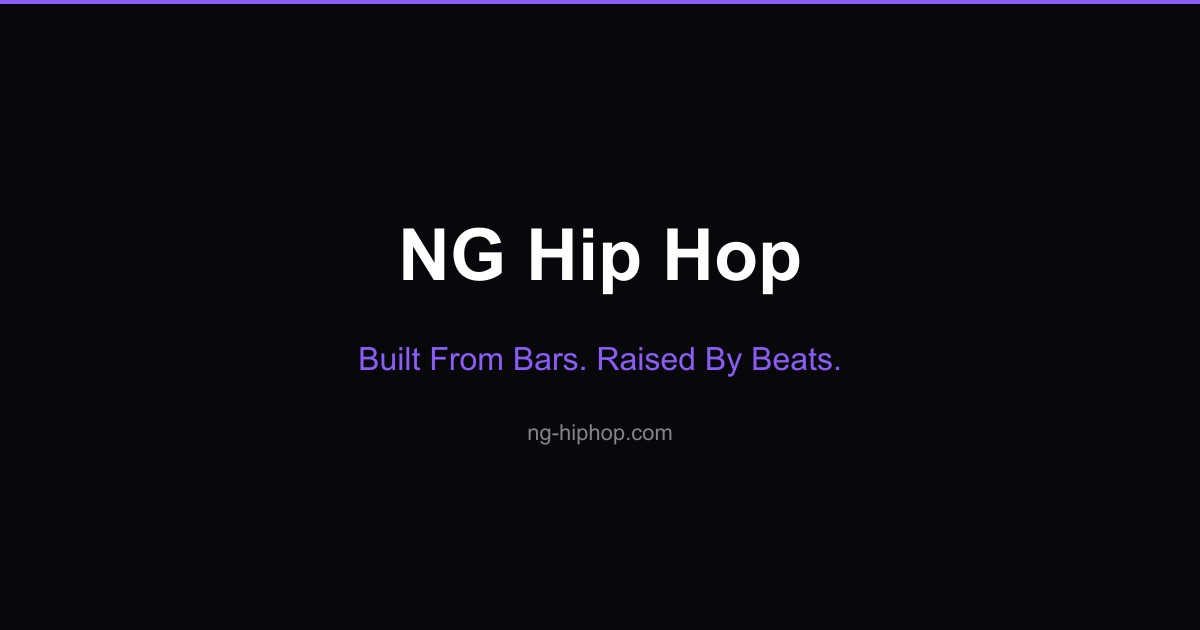
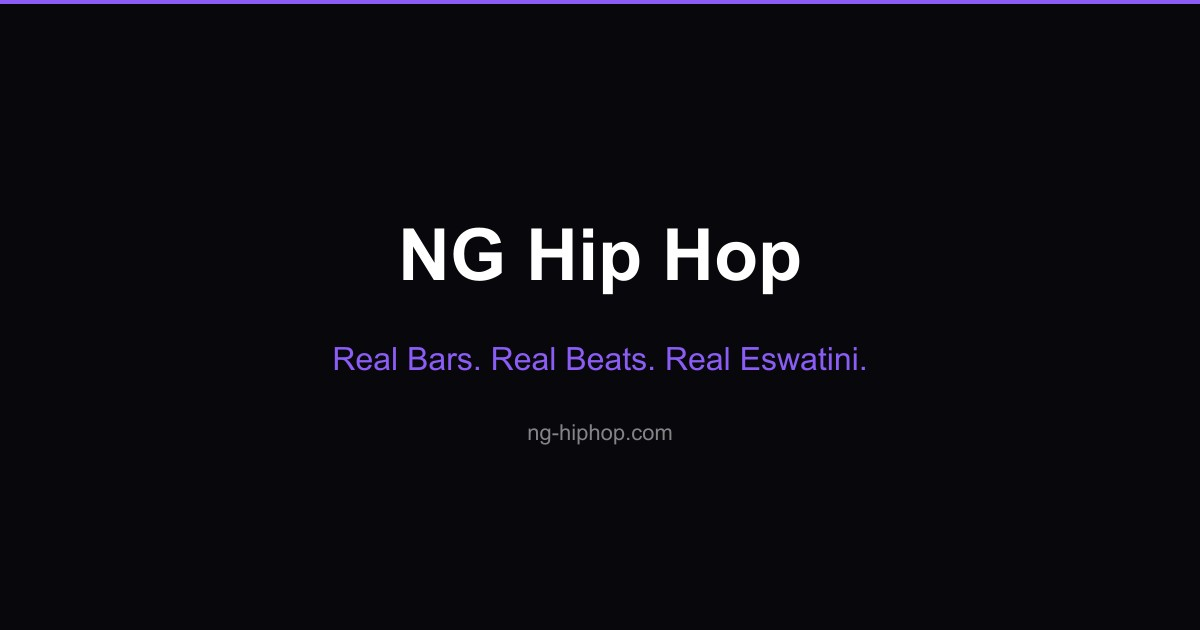
feat(hero): reword hero copy and centralize default slogan
- Slogan: Real Bars. Real Beats. Real Eswatini. (DB row synced, seed now imports shared constant)

- Subheading shortened; second CTA clarifies the lyric game (Test Your Ear)

- Default slogan extracted to lib/slogan.ts so seed, API fallback, and metadata cannot drift

- OG/twitter images regenerated with the new slogan

Changed region(s): [[0.2775, 0.5429, 0.7092, 0.6032]]

diff --git a/app/page.tsx b/app/page.tsx
@@ -5,18 +5,19 @@ import LatestRelease from '@/components/LatestRelease';
 import CommunityQuote from '@/components/CommunityQuote';
 import GraffitiShowcase from '@/components/GraffitiShowcase';
 import CompetitionBanner from '@/components/CompetitionBanner';
+import { DEFAULT_SLOGAN } from '@/lib/slogan';
 
 // Revalidate every 60 seconds
 export const revalidate = 60;
 
 export const metadata: Metadata = {
-    title: 'Nerd Gauge — Built From Bars. Raised By Beats.',
+    title: 'Nerd Gauge — Real Bars. Real Beats. Real Eswatini.',
     description: 'The official platform for Nerd Gauge. Stream the latest releases, explore community quotes, graffiti art, and join the lyric competition movement from Eswatini.',
     alternates: {
         canonical: '/',
     },
     openGraph: {
-        title: 'Nerd Gauge — Built From Bars. Raised By Beats.',
+        title: 'Nerd Gauge — Real Bars. Real Beats. Real Eswatini.',
         description: 'Stream the latest releases, explore community quotes, graffiti art, and join the lyric competition movement.',
         url: 'https://ng-hiphop.com',
         siteName: 'Nerd Gauge',
@@ -25,7 +26,7 @@ export const metadata: Metadata = {
                 url: '/og-image.jpg',
                 width: 1200,
                 height: 630,
-                alt: 'Nerd Gauge Platform — Built From Bars. Raised By Beats.',
+                alt: 'Nerd Gauge Platform — Real Bars. Real Beats. Real Eswatini.',
             },
         ],
         locale: 'en_US',
@@ -33,14 +34,12 @@ export const metadata: Metadata = {
     },
     twitter: {
         card: 'summary_large_image',
-        title: 'Nerd Gauge — Built From Bars. Raised By Beats.',
+        title: 'Nerd Gauge — Real Bars. Real Beats. Real Eswatini.',
         description: 'Stream the latest releases, explore community quotes, graffiti art, and join the lyric competition movement.',
         creator: '@nghiphop',
         images: ['/twitter-image.jpg'],
     },
 };
-
-const DEFAULT_SLOGAN = 'Built From Bars. Raised By Beats.';
 
 export default async function Home() {
   let sloganEntry: { text: string } | null = null;

diff --git a/app/layout.tsx b/app/layout.tsx
@@ -36,7 +36,7 @@ const dancingScript = Dancing_Script({
 
 export const metadata: Metadata = {
     title: {
-        default: 'Nerd Gauge — Built From Bars. Raised By Beats.',
+        default: 'Nerd Gauge — Real Bars. Real Beats. Real Eswatini.',
         template: '%s | Nerd Gauge'
     },
     icons: {
@@ -56,7 +56,7 @@ export const metadata: Metadata = {
     metadataBase: new URL('https://ng-hiphop.com'),
     openGraph: {
         title: 'Nerd Gauge — Authentic Hip-Hop Platform',
-        description: 'Built From Bars. Raised By Beats. Experience the sound of the streets.',
+        description: 'Real Bars. Real Beats. Real Eswatini. Experience the sound of the streets.',
         url: 'https://ng-hiphop.com',
         siteName: 'Nerd Gauge',
         images: [
@@ -72,7 +72,7 @@ export const metadata: Metadata = {
     },
     twitter: {
         card: 'summary_large_image',
-        title: 'Nerd Gauge — Built From Bars. Raised By Beats.',
+        title: 'Nerd Gauge — Real Bars. Real Beats. Real Eswatini.',
         description: 'Authentic hip-hop, community-driven, and legally distributed.',
         creator: '@nghiphop',
         images: ['/twitter-image.jpg'],

diff --git a/app/api/slogan/route.ts b/app/api/slogan/route.ts
@@ -4,6 +4,7 @@ import { sloganUpdateSchema } from '@/lib/validations';
 import { requireAdmin } from '@/app/api/_lib/admin';
 import { getRequestId, errorResponse, successResponse } from '@/lib/api';
 import { recordRequest } from '@/lib/observability';
+import { DEFAULT_SLOGAN } from '@/lib/slogan';
 import { extractIdempotencyKey, getCachedIdempotentResponse, withIdempotency } from '@/lib/idempotency';
 
 export async function GET(req: NextRequest) {
@@ -12,7 +13,7 @@ export async function GET(req: NextRequest) {
     try {
         const slogan = await prisma.slogan.findUnique({ where: { id: 1 } });
         recordRequest('GET', '/api/slogan', 200, performance.now() - start, requestId);
-        return successResponse({ text: slogan?.text ?? 'Built From Bars. Raised By Beats.' });
+        return successResponse({ text: slogan?.text ?? DEFAULT_SLOGAN });
     } catch (error) {
         console.error('Slogan fetch error:', error);
         recordRequest('GET', '/api/slogan', 500, performance.now() - start, requestId);

diff --git a/components/Hero.tsx b/components/Hero.tsx
@@ -83,7 +83,7 @@ export default function Hero({ slogan }: HeroProps) {
             <MusicNoteIcon size={18} aria-hidden="true" /> Listen Now
           </a>
           <a href="/game/best-lyrics" className="hero-btn-ghost">
-            <TrophyIcon size={18} aria-hidden="true" /> Join The Competition
+            <TrophyIcon size={18} aria-hidden="true" /> Test Your Ear
           </a>
         </motion.div>
 
@@ -93,7 +93,7 @@ export default function Hero({ slogan }: HeroProps) {
           transition={{ duration: 0.8, delay: 0.8 }}
           className="hero-value-prop"
         >
-          Stream the latest Eswatini hip-hop, catch the community's bars and art, and put your ear to the test.
+          Fresh Eswatini hip-hop. Killer bars. Can you keep up?
         </motion.p>
       </div>
 

diff --git a/prisma/seed.ts b/prisma/seed.ts
@@ -1,5 +1,6 @@
 import { PrismaClient } from '@prisma/client';
 import bcrypt from 'bcryptjs';
+import { DEFAULT_SLOGAN } from '../lib/slogan';
 
 const prisma = new PrismaClient();
 
@@ -12,7 +13,7 @@ async function main() {
         update: {},
         create: {
             id: 1,
-            text: 'Built From Bars. Raised By Beats.',
+            text: DEFAULT_SLOGAN,
         },
     });
     console.log('✅ Slogan seeded');

diff --git a/lib/slogan.ts b/lib/slogan.ts
@@ -1,0 +1,5 @@
+// The hero slogan's live value lives in the database (Slogan table, editable
+// from the Admin Dashboard). This constant is the fallback shown when no row
+// exists yet, and doubles as the seed's initial value — keeping the default
+// in one place instead of duplicated across seed, API, and page code.
+export const DEFAULT_SLOGAN = 'Real Bars. Real Beats. Real Eswatini.';

diff --git a/QUICKSTART.md b/QUICKSTART.md
@@ -192,4 +192,4 @@ npm run build
 4. Verify environment variables
 
 ---
-**Built From Bars. Raised By Beats.**
+**Real Bars. Real Beats. Real Eswatini.**
